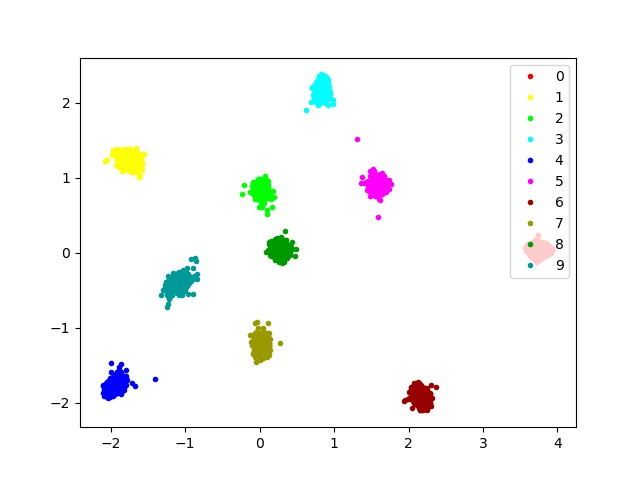
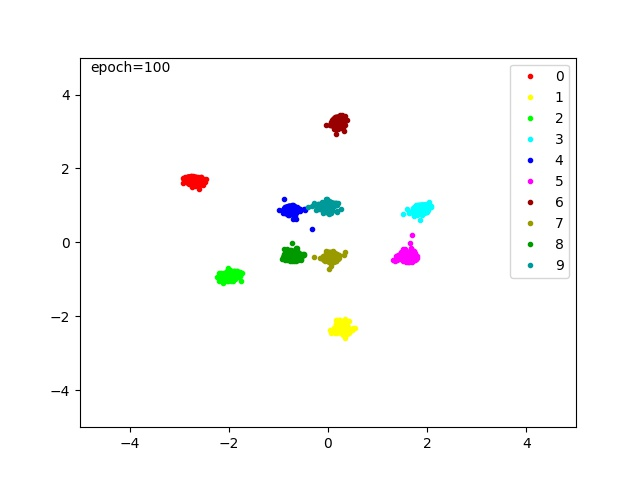
Pytorch 0.4 (#6)
* Migration to 0.4 done

* update new images

* Update README.md

diff --git a/MNIST_with_centerloss.py b/MNIST_with_centerloss.py
@@ -3,7 +3,6 @@ import torch.nn as nn
 import torch.nn.functional as F
 import torch.optim as optim
 from torchvision import datasets, transforms
-from torch.autograd import Variable
 from  torch.utils.data import DataLoader
 import torch.optim.lr_scheduler as lr_scheduler
 from CenterLoss import CenterLoss
@@ -42,7 +41,7 @@ class Net(nn.Module):
         x = x.view(-1, 128*3*3)
         ip1 = self.preluip1(self.ip1(x))
         ip2 = self.ip2(ip1)
-        return ip1, F.log_softmax(ip2)
+        return ip1, F.log_softmax(ip2, dim=1)
 
 def visualize(feat, labels, epoch):
     plt.ion()
@@ -52,34 +51,31 @@ def visualize(feat, labels, epoch):
     for i in range(10):
         plt.plot(feat[labels == i, 0], feat[labels == i, 1], '.', c=c[i])
     plt.legend(['0', '1', '2', '3', '4', '5', '6', '7', '8', '9'], loc = 'upper right')
- #   plt.xlim(xmin=-5,xmax=5)
- #   plt.ylim(ymin=-5,ymax=5)
+    plt.xlim(xmin=-5,xmax=5)
+    plt.ylim(ymin=-5,ymax=5)
     plt.text(-4.8,4.6,"epoch=%d" % epoch)
     plt.savefig('./images/epoch=%d.jpg' % epoch)
     plt.draw()
     plt.pause(0.001)
 
 
-def train(train_loader, model, criterion, optimizer, epoch, loss_weight, use_cuda):
+def train(epoch):
     print "Training... Epoch = %d" % epoch
     ip1_loader = []
     idx_loader = []
     for i,(data, target) in enumerate(train_loader):
-        if use_cuda:
-            data = data.cuda()
-            target = target.cuda()
-        data, target = Variable(data), Variable(target)
+        data, target = data.to(device), target.to(device)
 
         ip1, pred = model(data)
-        loss = criterion[0](pred, target) + loss_weight * criterion[1](target, ip1)
+        loss = nllloss(pred, target) + loss_weight * centerloss(target, ip1)
 
-        optimizer[0].zero_grad()
-        optimizer[1].zero_grad()
+        optimizer4nn.zero_grad()
+        optimzer4center.zero_grad()
 
         loss.backward()
 
-        optimizer[0].step()
-        optimizer[1].step()
+        optimizer4nn.step()
+        optimzer4center.step()
 
         ip1_loader.append(ip1)
         idx_loader.append((target))
@@ -88,43 +84,33 @@ def train(train_loader, model, criterion, optimizer, epoch, loss_weight, use_cud
     labels = torch.cat(idx_loader, 0)
     visualize(feat.data.cpu().numpy(),labels.data.cpu().numpy(),epoch)
 
+use_cuda = torch.cuda.is_available() and True
+device = torch.device("cuda" if use_cuda else "cpu")
+# Dataset
+trainset = datasets.MNIST('../MNIST', download=True,train=True, transform=transforms.Compose([
+    transforms.ToTensor(),
+    transforms.Normalize((0.1307,), (0.3081,))]))
+train_loader = DataLoader(trainset, batch_size=128, shuffle=True, num_workers=4)
 
-def main():
-    if torch.cuda.is_available():
-        use_cuda = True
-    else: use_cuda = False
-    # Dataset
-    trainset = datasets.MNIST('../data', download=True,train=True, transform=transforms.Compose([
-        transforms.ToTensor(),
-        transforms.Normalize((0.1307,), (0.3081,))]))
-    train_loader = DataLoader(trainset, batch_size=128, shuffle=True, num_workers=4)
+# Model
+model = Net().to(device)
 
-    # Model
-    model = Net()
+# NLLLoss
+nllloss = nn.NLLLoss().to(device) #CrossEntropyLoss = log_softmax + NLLLoss
+# CenterLoss
+loss_weight = 1
+centerloss = CenterLoss(10, 2).to(device)
 
-    # NLLLoss
-    nllloss = nn.NLLLoss() #CrossEntropyLoss = log_softmax + NLLLoss
-    # CenterLoss
-    loss_weight = 1
-    centerloss = CenterLoss(10, 2)
-    if use_cuda:
-        nllloss = nllloss.cuda()
-        centerloss = centerloss.cuda()
-        model = model.cuda()
-    criterion = [nllloss, centerloss]
-    
-    # optimzer4nn
-    optimizer4nn = optim.SGD(model.parameters(),lr=0.001,momentum=0.9, weight_decay=0.0005)
-    sheduler = lr_scheduler.StepLR(optimizer4nn,20,gamma=0.8)
+# optimzer4nn
+optimizer4nn = optim.SGD(model.parameters(),lr=0.001,momentum=0.9, weight_decay=0.0005)
+sheduler = lr_scheduler.StepLR(optimizer4nn,20,gamma=0.8)
 
-    # optimzer4center
-    optimzer4center = optim.SGD(centerloss.parameters(), lr =0.5)
+# optimzer4center
+optimzer4center = optim.SGD(centerloss.parameters(), lr =0.5)
 
-    for epoch in range(100):
-        sheduler.step()
-        # print optimizer4nn.param_groups[0]['lr']
-        train(train_loader, model, criterion, [optimizer4nn, optimzer4center], epoch+1, loss_weight, use_cuda)
+for epoch in range(100):
+    sheduler.step()
+    # print optimizer4nn.param_groups[0]['lr']
+    train(epoch+1)
 
 
-if __name__ == '__main__':
-    main()

diff --git a/CenterLoss.py b/CenterLoss.py
@@ -1,6 +1,5 @@
 import torch
 import torch.nn as nn
-from torch.autograd import Variable
 from torch.autograd.function import Function
 
 
@@ -13,7 +12,7 @@ class CenterLoss(nn.Module):
 
     def forward(self, label, feat):
         batch_size = feat.size(0)
-        feat = feat.view(batch_size, 1, 1, -1).squeeze()
+        feat = feat.view(batch_size, -1)
         # To check the dim of centers and features
         if feat.size(1) != self.feat_dim:
             raise ValueError("Center's dim: {0} should be equal to input feature's dim: {1}".format(self.feat_dim,feat.size(1)))
@@ -21,13 +20,11 @@ class CenterLoss(nn.Module):
 
 
 class CenterlossFunc(Function):
-
     @staticmethod
     def forward(ctx, feature, label, centers):
         ctx.save_for_backward(feature, label, centers)
         centers_batch = centers.index_select(0, label.long())
-        return (feature - centers_batch).pow(2).sum(1).sum(0) / 2.0
-
+        return (feature - centers_batch).pow(2).sum() / 2.0
 
     @staticmethod
     def backward(ctx, grad_output):
@@ -38,33 +35,26 @@ class CenterlossFunc(Function):
         counts = centers.new(centers.size(0)).fill_(1)
         ones = centers.new(label.size(0)).fill_(1)
         grad_centers = centers.new(centers.size()).fill_(0)
+
         counts = counts.scatter_add_(0, label.long(), ones)
-        # print counts, grad_centers
         grad_centers.scatter_add_(0, label.unsqueeze(1).expand(feature.size()).long(), diff)
-
-
         grad_centers = grad_centers/counts.view(-1, 1)
+        return - grad_output.data * diff, None, grad_centers
 
-        return Variable(-grad_output.data*diff), None, Variable(grad_centers)
 
 def main(test_cuda=False):
     print('-'*80)
-    ct = CenterLoss(10,2)
-    y = Variable(torch.Tensor([0,0,2,1]))
-    feat = Variable(torch.zeros(4,2),requires_grad=True)
-    if test_cuda:
-        ct = ct.cuda()
-        y = Variable(torch.Tensor([0,0,2,1]).cuda())
-        feat = Variable(torch.zeros(4,2).cuda(),requires_grad=True)
+    device = torch.device("cuda" if test_cuda else "cpu")
+    ct = CenterLoss(10,2).to(device)
+    y = torch.Tensor([0,0,2,1]).to(device)
+    feat = torch.zeros(4,2,).to(device).requires_grad_()
     print (list(ct.parameters()))
     print (ct.centers.grad)
-    # print y
-    # print feat
     out = ct(y,feat)
+    print(out.item())
     out.backward()
     print(ct.centers.grad)
-    print (feat.grad)
-
+    print(feat.grad)
 
 if __name__ == '__main__':
     torch.manual_seed(999)

diff --git a/README.md b/README.md
@@ -1,3 +1,7 @@
+### UPDATE(May. 2018)
+Migration to PyTorch 0.4 done!
+
+
 ### UPDATE(Apr. 2018)
 Thanks [@wenfahu](https://github.com/wenfahu) for accomplishing the optimization of *backward()*.
 
